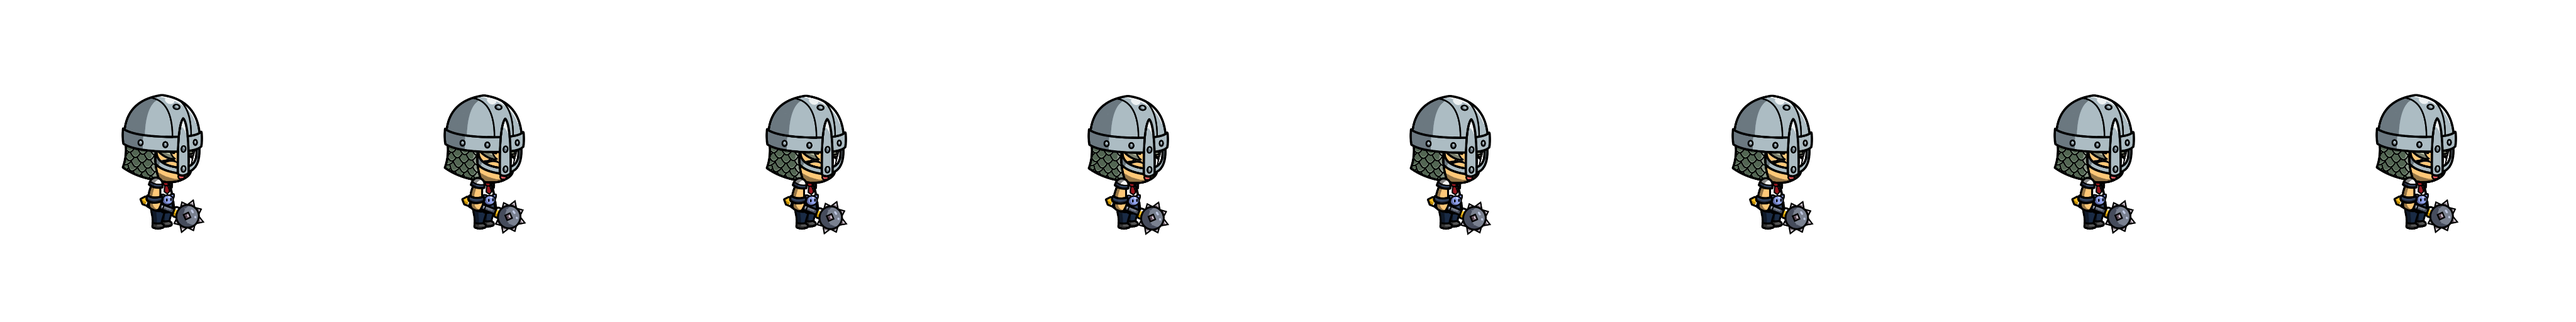
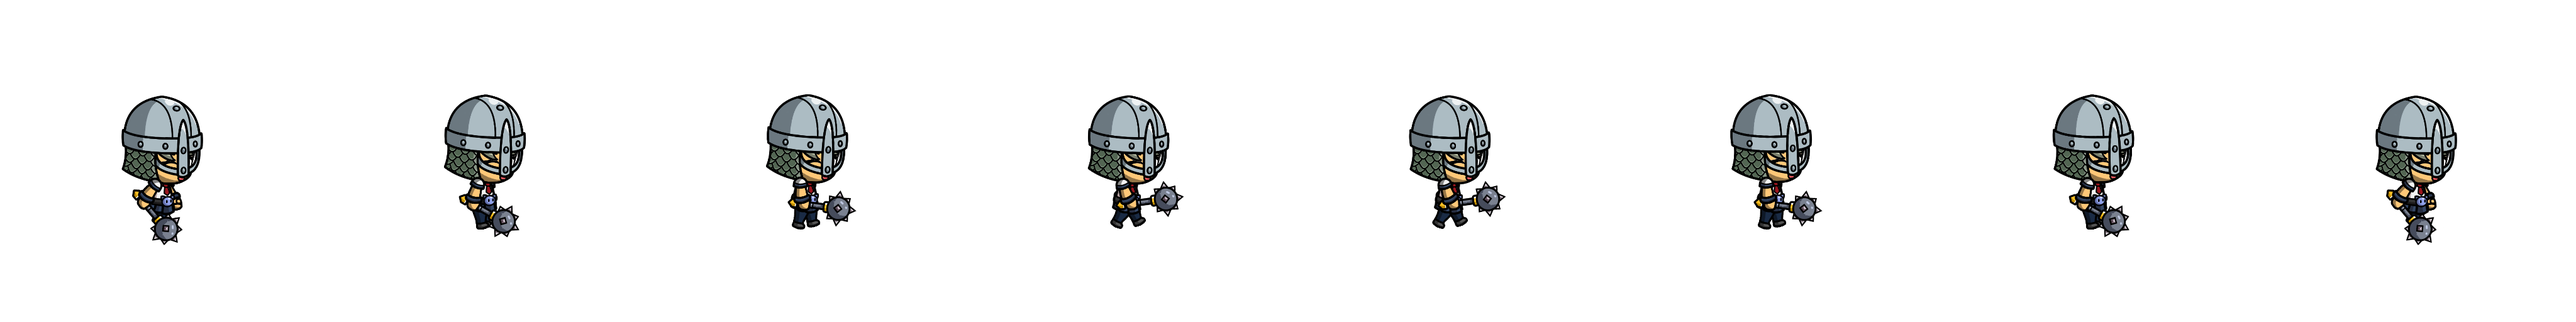
Fix: idle=row0, walk=row2 (row1=ready, not walk)

diff --git a/js/data.js b/js/data.js
@@ -1,5 +1,5 @@
 // ===== CHARACTER SVGs =====
-const SPRITE_VER='?v=11';
+const SPRITE_VER='?v=12';
 const CHAR_SVG={
 전사:{type:'sprite',frames:8,
   idle:{src:'img/warrior-idle.png',w:128,h:128,tw:1024},
